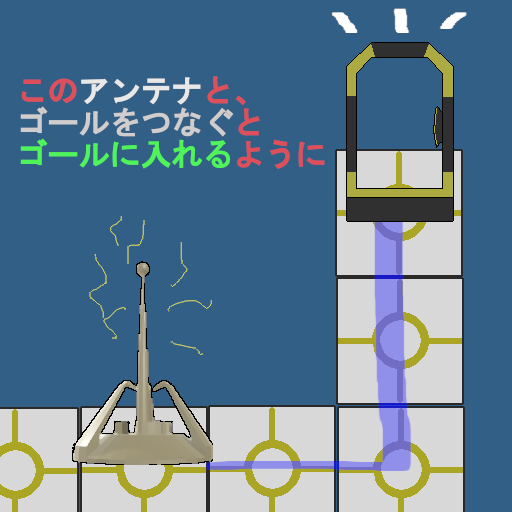
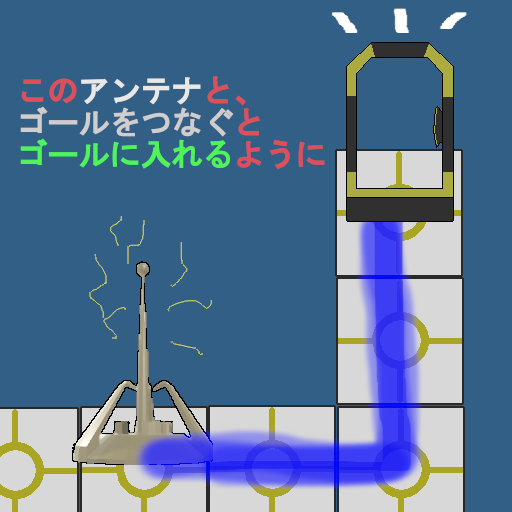
一手戻るのをチュートリアルで説明、小さいやつ、ステージにブロックうまるの修正

Changed region(s): [[0.25, 0.4062, 0.8438, 0.9688]]

diff --git a/Tutorial.cpp b/Tutorial.cpp
@@ -15,10 +15,11 @@ void Tutorial::Initialize()
 		TextureManager::LoadGraph(L"Resources/image/Explanation/Explanation_Connecting.png", texhandle[CONNECT]);
 		TextureManager::LoadGraph(L"Resources/image/Explanation/Explanation_Rotate.png", texhandle[TURN]);
 		TextureManager::LoadGraph(L"Resources/image/Explanation/Explanation_Overlapping.png", texhandle[OVERLAP]);
-		TextureManager::LoadGraph(L"Resources/image/restart.png", texhandle[OVERLAP + 1]);
-		TextureManager::LoadGraph(L"Resources/image/Explanation/Explanartion_Button.png", texhandle[OVERLAP + 2]);
-		TextureManager::LoadGraph(L"Resources/image/Explanation/Explanartion_Goal.png", texhandle[OVERLAP + 3]);
-		TextureManager::LoadGraph(L"Resources/image/Explanation/Explanartion_ElectlicBlock.png", texhandle[OVERLAP + 4]);
+		TextureManager::LoadGraph(L"Resources/image/Explanation/Explanation_Z.png", texhandle[GETBACK]);
+		TextureManager::LoadGraph(L"Resources/image/Explanation/Explanartion_Button.png", texhandle[BUTTON]);
+		TextureManager::LoadGraph(L"Resources/image/Explanation/Explanartion_Goal.png", texhandle[BUTTON + 1]);
+		TextureManager::LoadGraph(L"Resources/image/Explanation/Explanartion_ElectlicBlock.png", texhandle[ELECTRIC + 1]);
+		TextureManager::LoadGraph(L"Resources/image/restart.png", texhandle[ELECTRIC + 2]);
 	}
 
 
@@ -39,10 +40,12 @@ void Tutorial::ButtonInitialize()
 		TextureManager::LoadGraph(L"Resources/image/Explanation/Explanation_Connecting.png", texhandle[CONNECT]);
 		TextureManager::LoadGraph(L"Resources/image/Explanation/Explanation_Rotate.png", texhandle[TURN]);
 		TextureManager::LoadGraph(L"Resources/image/Explanation/Explanation_Overlapping.png", texhandle[OVERLAP]);
-		TextureManager::LoadGraph(L"Resources/image/restart.png", texhandle[OVERLAP + 1]);
-		TextureManager::LoadGraph(L"Resources/image/Explanation/Explanartion_Button.png", texhandle[OVERLAP + 2]);
-		TextureManager::LoadGraph(L"Resources/image/Explanation/Explanartion_Goal.png", texhandle[OVERLAP + 3]);
-		TextureManager::LoadGraph(L"Resources/image/Explanation/Explanartion_ElectlicBlock.png", texhandle[OVERLAP + 4]);
+		TextureManager::LoadGraph(L"Resources/image/Explanation/Explanation_Z.png", texhandle[GETBACK]);
+		TextureManager::LoadGraph(L"Resources/image/Explanation/Explanartion_Button.png", texhandle[BUTTON]);
+		TextureManager::LoadGraph(L"Resources/image/Explanation/Explanartion_Goal.png", texhandle[BUTTON + 1]);
+		TextureManager::LoadGraph(L"Resources/image/Explanation/Explanartion_ElectlicBlock.png", texhandle[ELECTRIC + 1]);
+		TextureManager::LoadGraph(L"Resources/image/restart.png", texhandle[ELECTRIC + 2]);
+
 	}
 
 
@@ -63,10 +66,11 @@ void Tutorial::ElectricInitialize()
 		TextureManager::LoadGraph(L"Resources/image/Explanation/Explanation_Connecting.png", texhandle[CONNECT]);
 		TextureManager::LoadGraph(L"Resources/image/Explanation/Explanation_Rotate.png", texhandle[TURN]);
 		TextureManager::LoadGraph(L"Resources/image/Explanation/Explanation_Overlapping.png", texhandle[OVERLAP]);
-		TextureManager::LoadGraph(L"Resources/image/restart.png", texhandle[OVERLAP + 1]);
-		TextureManager::LoadGraph(L"Resources/image/Explanation/Explanartion_Button.png", texhandle[OVERLAP + 2]);
-		TextureManager::LoadGraph(L"Resources/image/Explanation/Explanartion_Goal.png", texhandle[OVERLAP + 3]);
-		TextureManager::LoadGraph(L"Resources/image/Explanation/Explanartion_ElectlicBlock.png", texhandle[OVERLAP + 4]);
+		TextureManager::LoadGraph(L"Resources/image/Explanation/Explanation_Z.png", texhandle[GETBACK]);
+		TextureManager::LoadGraph(L"Resources/image/Explanation/Explanartion_Button.png", texhandle[BUTTON]);
+		TextureManager::LoadGraph(L"Resources/image/Explanation/Explanartion_Goal.png", texhandle[BUTTON + 1]);
+		TextureManager::LoadGraph(L"Resources/image/Explanation/Explanartion_ElectlicBlock.png", texhandle[ELECTRIC + 1]);
+		TextureManager::LoadGraph(L"Resources/image/restart.png", texhandle[ELECTRIC + 2]);
 	}
 
 
@@ -82,7 +86,7 @@ void Tutorial::Draw()
 {
 	state->Draw();
 
-	sprite[0].DrawBoxSprite({ 10,10,0 }, 1.0f, { 1.0f,1.0f,1.0f,1.0f }, texhandle[OVERLAP + 1]);
+	sprite[0].DrawBoxSprite({ 10,10,0 }, 1.0f, { 1.0f,1.0f,1.0f,1.0f }, texhandle[ELECTRIC + 2]);
 }
 
 
@@ -143,7 +147,7 @@ void TurnTutorial::Update()
 	{
 		tutorial->AddStateNum();
 		tutorial->AddState2();
-		tutorial->ChangeState(new OverlapTutorial);
+		tutorial->ChangeState(new GetBackTutorial);
 	}
 }
 
@@ -152,6 +156,35 @@ void TurnTutorial::Draw()
 	count += 0.1f;
 
 	sprite[0].DrawBoxSprite({ WindowsApp::GetInstance().window_width / 3.0f * 2.25f,30.0f + sinf(count) * 2.4f,0 }, 0.58f, { 1.0f,1.0f,1.0f,1.0f }, tutorial->texhandle[TURN]);
+}
+
+
+//------------------------------------------------------------------------------------
+GetBackTutorial::GetBackTutorial()
+{
+}
+
+void GetBackTutorial::Update()
+{
+	if (KeyboardInput::GetInstance().KeyTrigger(DIK_Z))
+	{
+		num++;
+	}
+
+	if (num >= numMax)
+	{
+		//num = numMax - 1;
+		tutorial->AddStateNum();
+		tutorial->AddState2();
+		tutorial->ChangeState(new OverlapTutorial);
+	}
+}
+
+void GetBackTutorial::Draw()
+{
+	count += 0.1f;
+
+	sprite[0].DrawBoxSprite({ WindowsApp::GetInstance().window_width / 3.0f * 2.25f,30.0f + sinf(count) * 2.4f,0 }, 0.58f, { 1.0f,1.0f,1.0f,1.0f }, tutorial->texhandle[GETBACK]);
 }
 
 //-----------------------------------------------------------------------
@@ -200,11 +233,11 @@ void ButtonTutorial::Draw()
 
 	if (num == 0)
 	{
-		sprite[0].DrawBoxSprite({ WindowsApp::GetInstance().window_width / 3.0f * 2.25f,30.0f + sinf(count) * 2.4f,0 }, 0.58f, { 1.0f,1.0f,1.0f,1.0f }, tutorial->texhandle[OVERLAP + 2]);
+		sprite[0].DrawBoxSprite({ WindowsApp::GetInstance().window_width / 3.0f * 2.25f,30.0f + sinf(count) * 2.4f,0 }, 0.58f, { 1.0f,1.0f,1.0f,1.0f }, tutorial->texhandle[BUTTON]);
 	}
 	else
 	{
-		sprite[0].DrawBoxSprite({ WindowsApp::GetInstance().window_width / 3.0f * 2.25f,30.0f + sinf(count) * 2.4f,0 }, 0.58f, { 1.0f,1.0f,1.0f,1.0f }, tutorial->texhandle[OVERLAP + 3]);
+		sprite[0].DrawBoxSprite({ WindowsApp::GetInstance().window_width / 3.0f * 2.25f,30.0f + sinf(count) * 2.4f,0 }, 0.58f, { 1.0f,1.0f,1.0f,1.0f }, tutorial->texhandle[BUTTON + 1]);
 	}
 }
 
@@ -229,7 +262,7 @@ void ElectricTutorial::Draw()
 {
 	count += 0.1f;
 
-	sprite[0].DrawBoxSprite({ WindowsApp::GetInstance().window_width / 3.0f * 2.25f,30.0f + sinf(count) * 2.4f,0 }, 0.58f, { 1.0f,1.0f,1.0f,1.0f }, tutorial->texhandle[OVERLAP + 4]);
+	sprite[0].DrawBoxSprite({ WindowsApp::GetInstance().window_width / 3.0f * 2.25f,30.0f + sinf(count) * 2.4f,0 }, 0.58f, { 1.0f,1.0f,1.0f,1.0f }, tutorial->texhandle[ELECTRIC + 1]);
 }
 
 

diff --git a/Scene.cpp b/Scene.cpp
@@ -40,6 +40,7 @@ void SceneStageSelect::Initialize()
 {
 	scene->lightManager->SetCircleShadowActive(0, false);
 	scene->stageSelectM->Initialize(scene->stageManager.get());
+	scene->cameraM->Initialize();
 }
 
 void SceneStageSelect::Update()
@@ -69,7 +70,7 @@ void SceneStageSelect::DrawSprite()
 void SceneGame::Initialize()
 {
 	//ステージ
-	objWallFloor.worldMat->trans = { { scene->stageManager->stageWidth / 2.0f * scene->blockManager->blockRadius_ * 2.0f },0,0 };
+	objWallFloor.worldMat->trans = { { scene->stageManager->stageWidth / 2.0f * scene->blockManager->blockRadius_ * 2.0f },-scene->blockManager->blockRadius_,0 };
 	objWallFloor.worldMat->scale = { scene->blockManager->blockRadius_ * 5.0f,scene->blockManager->blockRadius_ * 5.0f,scene->blockManager->blockRadius_ * 5.0f };
 	objWallFloor.worldMat->SetWorld();
 
@@ -84,6 +85,7 @@ void SceneGame::Initialize()
 		scene->goalE.get(), scene->model[1], scene->model[2], scene->model[3], scene->model[4], scene->model[5], scene->model[6],
 		scene->model[8], scene->model[9], scene->model[10]);
 	scene->connectEM->Initialize();
+	scene->connectE2M->Initialize();
 	scene->player->Initialize(scene->blockManager->blockRadius_ * 2.0f, scene->blockManager, scene->playerSocket.get()
 		, scene->connectE2M.get(), scene->tutorial.get(), scene->cameraM.get(), scene->model[0], &scene->debugText);
 	scene->playerSocket->Initialize(scene->connectE2M.get(), scene->blockManager->blockRadius_, scene->model[0]);
@@ -113,7 +115,7 @@ void SceneGame::Update()
 		scene->blockManager->Update();
 
 		Vec3 pos = scene->player->GetWorldPos();
-		scene->playerSocket->Update({ pos.x,pos.y + scene->player->GetRadius(),pos.z });
+		scene->playerSocket->Update({ pos.x,pos.y,pos.z });
 
 		if (scene->stageSelectM->isTutorial)
 		{

diff --git a/Tutorial.h b/Tutorial.h
@@ -7,6 +7,7 @@ static enum TUTORIAL
 	CONNECT,  //繋ぐ
 	TURN,     //回転
 	OVERLAP,  //重なる
+	GETBACK,  //一手戻る
 	BUTTON,   //ボタン
 	ELECTRIC, //電気ブロック
 	LAST      //終わり
@@ -155,6 +156,27 @@ private:
 
 public:
 	OverlapTutorial();
+
+
+	void AddNum()override { num++; }
+	int GetNum()override { return num; }
+	int GetMaxNum()override { return numMax; }
+
+	void Update() override;
+	void Draw() override;
+};
+
+// 一手戻る
+class GetBackTutorial : public TutorialState
+{
+private:
+
+	const int numMax = 2;
+	int texhandle[5];
+	Object sprite[5];
+
+public:
+	GetBackTutorial();
 
 
 	void AddNum()override { num++; }
